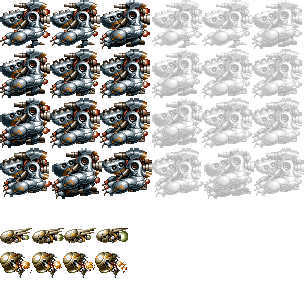
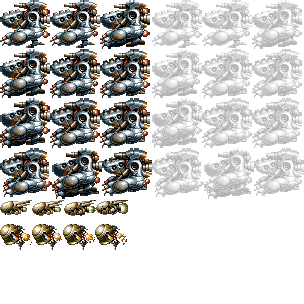
added basic enemy

Changed region(s): [[0.0, 0.7401, 0.4441, 0.9178], [0.0, 0.6513, 0.4441, 0.7105]]

diff --git a/Code/LastResortCode/Enemy_Basic.cpp b/Code/LastResortCode/Enemy_Basic.cpp
@@ -4,42 +4,22 @@
 
 Enemy_Basic::Enemy_Basic(int x, int y) : Enemy(x, y)
 {
-	/*fly.PushBack({ 5,6,24,24 });
-	fly.PushBack({ 38, 6, 24, 24 });
-	fly.PushBack({ 71, 6, 24, 24 });
-	fly.PushBack({ 104, 6, 24, 24 });
-	fly.PushBack({ 137, 6, 24, 24 });
-	fly.PushBack({ 170, 6, 24, 24 });
-	fly.PushBack({ 203, 6, 24, 24 });
-	fly.PushBack({ 236, 6, 24, 24 });
-	fly.speed = 0.2f;
+	for (int i=0;i<=96;i+=32)
+	{
+		basicenemy.PushBack({ i,200,32,16 });
+	}
+	basicenemy.speed = 0.12f;
 
-	animation = &fly;
+	animation = &basicenemy;
 
-	collider = App->collision->AddCollider({ 0, 0, 24, 24 }, COLLIDER_TYPE::COLLIDER_ENEMY, (Module*)App->enemies);
+	collider = App->collision->AddCollider({ 0, 0, 32, 16 }, COLLIDER_TYPE::COLLIDER_ENEMY, (Module*)App->enemies);
 
-	original_y = y;*/
+	
 }
 
 void Enemy_Basic::Move()
 {
-	/*
-	if (going_up)
-	{
-	if (wave > 1.0f)
-	going_up = false;
-	else
-	wave += 0.05f;
-	}
-	else
-	{
-	if (wave < -1.0f)
-	going_up = true;
-	else
-	wave -= 0.05f;
-	}
 
-	position.y = int(float(original_y) + (25.0f * sinf(wave)));
 	position.x -= 1;
-	*/
+	
 }

diff --git a/Code/LastResortCode/ModuleStage01.cpp b/Code/LastResortCode/ModuleStage01.cpp
@@ -92,7 +92,8 @@ bool ModuleStage01::Start()
 	initPosition = { 40, 78 };
 	//Enemies----------------------------------------------------------------
 	//App->collision->AddCollider({ 500, 100, 128, 128 }, COLLIDER_ENEMY, this);//delete after testing: Alejandro
-	App->enemies->AddEnemy(ENEMY_TYPES::OSCILATOR, 500, SCREEN_HEIGHT/2);
+//	App->enemies->AddEnemy(ENEMY_TYPES::OSCILATOR, 500, SCREEN_HEIGHT/2);
+	App->enemies->AddEnemy(ENEMY_TYPES::BASIC, 600, SCREEN_HEIGHT / 2);
 
 	//define moveCamera struct values
 	

diff --git a/Code/LastResortCode/Enemy_Basic.h b/Code/LastResortCode/Enemy_Basic.h
@@ -6,15 +6,13 @@
 class Enemy_Basic : public Enemy
 {
 private:
-	//float wave = -1.0f;
+	
 	bool going_up = true;
-	int original_y = 0;
-	Animation fly;
+	Animation basicenemy;
 
 public:
 
 	Enemy_Basic(int x, int y);
-
 	void Move();
 };
 
